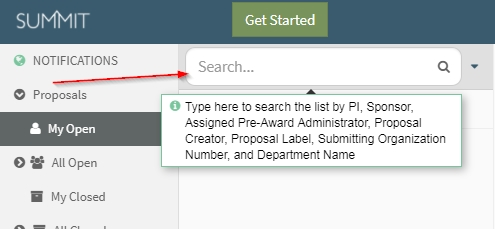
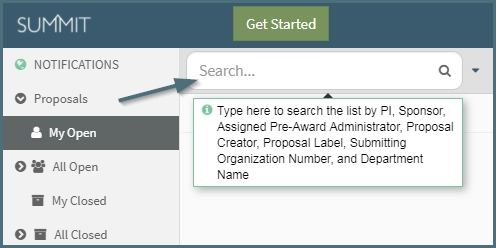
Summit Doc Updates for 8/9

diff --git a/docs/releaseNotes.md b/docs/releaseNotes.md
@@ -1,8 +1,8 @@
 ## Release 2.0.0 - August 2017
-#### **1. Get Started / Advance redeisgn**
+#### **1. Get Started redeisgn**
 ![Proposal Initiator Start Screen](images/navigation/NavIni_Start.jpg)
 
-**Get Started** will have all 3 options as seen above, while selecting **Advance** from within a proposal will only have the last two options.
+**Get Started** will have all 3 options as seen above
 
 - **Start New Work**
     - I want to create a new Proposal, Pre-Proposal, White Paper, or Letter of Intent that is not advancing current work
@@ -12,7 +12,13 @@
     - I want to request additional funding on an existing grant
 <br><br>
 
-#### **2. Types of Work updated**
+#### **2. Advance redeisgn**
+**Advance** from within a proposal and you will see the same options as you do in the Get Started, except "Start New Work"
+![Proposal Advance Start Screen](images/navigation/NavIni_Advance.jpg)
+
+<br>
+
+#### **3. Types of Work updated**
 **Current:** White Paper, Letter of Intent, Pre-Proposal, Proposal, Supplement, Continuation
 
 **Added:** Supplement, Continuation
@@ -22,7 +28,7 @@
     Note: For "Revision", you are now able to revise to the Type of Work you're are advancing from (ex. Proposal to Proposal). For "Other", you can specify if it is a "Supplement" or "Continuation".
 <br>
 
-#### **3. History Log**
+#### **4. History Log**
 Users will now have the ability to view a list of all Types of Work that have been linked to each other via the advance feature.
 
 Below shows the display in Summit when a user clicks "History".  Sorted by creation date, the earliest work will be at the bottom and most recent created at the top.  All types of work in that cycle can be accessed from another other work while having the History display up, simply click the hyperlink of the Proposal ID.
@@ -30,7 +36,7 @@ Below shows the display in Summit when a user clicks "History".  Sorted by creat
 ![Tools History Sequence](../images/tools/ToolHistory_Sequence.jpg)
 <br><br>
 
-#### **4. Minor Updates**  
+#### **5. Minor Updates**  
 - Compliance questions updated (OESRC and IRB)
 - Year Displayed in the Proposal Summary if not current year
 - 4 Initiator Questions generate a checklist requirement versus a dropdown in the proposal editor
@@ -43,13 +49,8 @@ Below shows the display in Summit when a user clicks "History".  Sorted by creat
 ![New Summary Width](images/releaseNotes/newSummaryWidth.jpg)
 <br><br>
 
-#### **5. Bug Fixes**
+#### **6. Bug Fixes**
 - Help Text on search fields
 ![Help Text](images/releaseNotes/helpText.jpg)
 - Activity Log erorrs
 - Current Pre Award assignment list used when a work is advanced or duplicated.  Prior issue had the Pre Award associate copied from the original work.  
-
-
-<br><br>
-<center>Check back later for notes from past releases</center>
-![holdon](../images/holdon.gif)
